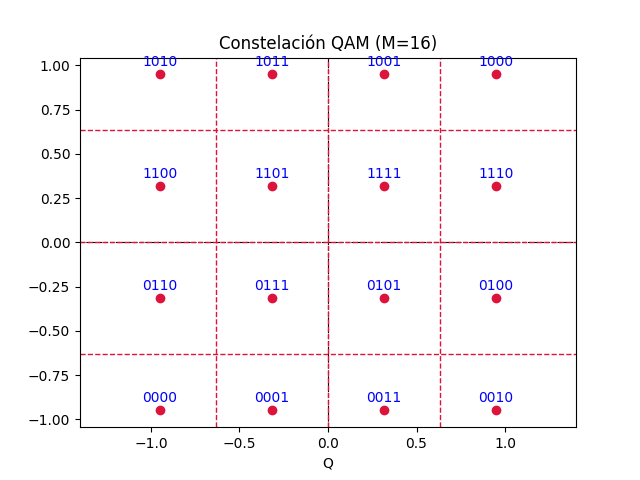
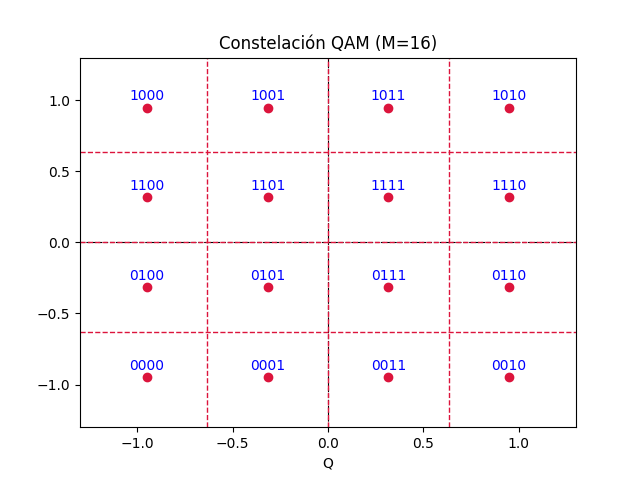
Modifica el código de gray de QAM, y hace pruebas con ASK

diff --git a/montecarlo.py b/montecarlo.py
@@ -1,9 +1,13 @@
+from cProfile import label
+
+import matplotlib.pyplot as plt
+
 from Constelacion import *
 import numpy as np
 
 
 d = 2
-M = 16
+M = 2
 k = int(np.log2(M))
 
 #n es la cantidad de veces q lo genera (va a ser cuantos arrays queremos hacer)
@@ -13,12 +17,12 @@ n_bits = M*2 #van a ser columnas
 bit_array_send = np.random.binomial(n,p,n_bits)
 
 
-modulacion = Constelacion(d,M,'PSK')
+modulacion = Constelacion(d,M,'ASK')
 #modulacion.graficar()
 simbolos_codificados = modulacion.codificarBits(bit_array_send)
 
-mod_qam = Constelacion(d,M,'QAM')
-simbolos_codif_qam = mod_qam.codificarBits(bit_array_send)
+# mod_qam = Constelacion(d,M,'QAM')
+# simbolos_codif_qam = mod_qam.codificarBits(bit_array_send)
 
 
 EbNoDB = np.arange(0,10,1) #De 0 a 10dB
@@ -32,7 +36,7 @@ ruido_x = np.random.normal(0,std,n_ruido)
 ruido_y =1j* np.random.normal(0, std, n_ruido)
 ruido = ruido_x + ruido_y
 
-simbolo_ruido_qam = simbolos_codif_qam + ruido
+# simbolo_ruido_qam = simbolos_codif_qam + ruido
 
 simbolos_con_ruido = simbolos_codificados + ruido
 #print(np.angle(simbolos_codificados)*180/np.pi+180)
@@ -40,11 +44,11 @@ simbolos_con_ruido = simbolos_codificados + ruido
 
 simbolos_decodificados = modulacion.decisor_PSK(simbolos_con_ruido)
 
-simbolos_decodif_qam = mod_qam.decisor_QAM(simbolo_ruido_qam)
+# simbolos_decodif_qam = mod_qam.decisor_QAM(simbolo_ruido_qam)
 
-print('pos codificado',simbolos_codif_qam)
-print('pos recibida',simbolo_ruido_qam)
-print('pos decod',simbolos_decodif_qam)
+# print('pos codificado',simbolos_codif_qam)
+# print('pos recibida',simbolo_ruido_qam)
+# print('pos decod',simbolos_decodif_qam)
 '''
 print('umbrales')
 print('angulos codificado',np.angle(simbolos_codificados)*180/np.pi)
@@ -56,8 +60,25 @@ modQAM = Constelacion(d,M,'QAM')
 modASK = Constelacion(d,M,'ASK')
 
 modASK.graficar()
-modQAM.graficar()
+# modQAM.graficar()
 
+simbolos_cod_ask= modASK.codificarBits(bit_array_send)
+simbolos_ask_con_ruido = simbolos_cod_ask + ruido_x
+
+decodificados_ask = modASK.decisor_ASK(simbolos_ask_con_ruido)
+
+
+fig = plt.figure()
+
+plt.scatter(simbolos_cod_ask, np.zeros_like(simbolos_cod_ask), label= 'pos codificado', marker='o', facecolors='none',edgecolors='blue')
+plt.scatter(decodificados_ask, np.zeros_like(decodificados_ask),label ='pos decod', marker='o')
+plt.scatter(simbolos_ask_con_ruido, np.zeros_like(simbolos_ask_con_ruido),label='pos recibida', marker='.')
+
+plt.legend()
+plt.show()
+print('pos codificado',simbolos_cod_ask)
+print('pos recibida',simbolos_ask_con_ruido)
+print('pos decod',decodificados_ask)
 
 # #Empezamos con la PSK
 # EbNoDB = np.arange(0,10,1) #De 0 a 10dB

diff --git a/Constelacion.py b/Constelacion.py
@@ -1,6 +1,6 @@
 from enum import Enum
 
-from numpy.ma.core import indices
+from numpy.ma.core import zeros_like
 
 from Modulaciones import *
 from graficadores import *
@@ -18,6 +18,15 @@ fuciones_constelaciones = {
     TipoConstelacion.QAM: qam,
     TipoConstelacion.FSK: fsk
 }
+
+def array_binario_a_decimal(arr):
+    arr = np.array(arr, dtype=int)
+    suma = 0
+    j = 0
+    for i in arr[::-1]:
+        suma += i*2**j
+        j += 1
+    return suma
 
 def validar_M(M):
     if not (M > 0 and (M & (M - 1)) == 0):
@@ -67,11 +76,14 @@ class Constelacion:
     def codificarBits(self, bits):
         cantidadBits = len(bits)
         k = int(np.log2(self.M))
-        simbolosCodificados = np.zeros(int(cantidadBits/k), dtype=complex)
+        if self.tipoConstelacion == TipoConstelacion.QAM or self.tipoConstelacion == TipoConstelacion.PSK:
+            simbolosCodificados = np.zeros(int(cantidadBits/k), dtype=complex)
+        else:
+            simbolosCodificados = np.zeros(int(cantidadBits / k))
         pos_codificados = 0
         for i in range(0,cantidadBits,k):
             s= bits[i:i+k]
-            simbolo = self.codigo.get(array_binario_a_gray(s))
+            simbolo = self.codigo.get(array_binario_a_decimal(s))
             if simbolo is None:
                 return None, "Constelacion no válida"
             simbolosCodificados[pos_codificados] = simbolo
@@ -104,14 +116,27 @@ class Constelacion:
 
 
     def decisor_ASK(self,posicion_recibida):
-        simbolo_estimado =[]
+        simbolo_estimado =zeros_like(posicion_recibida)
         posiciones = list(self.codigo.values())
+        indice = 0
+        for i in posicion_recibida:
+            if i < 0:
+                i += 360
+            j = 0
 
-        for pos in posicion_recibida:
-            j = next((idx for idx, umbral in enumerate(self.umbrales) if pos <= umbral), 0)
-            simbolo_estimado.append(posiciones[j])
+            for umbral in self.umbrales:
+                if i <= umbral:
+                    simbolo_estimado[indice] = posiciones[j]
+                    break
+                elif i > umbral:
+                    j += 1
+                else:
+                    simbolo_estimado[indice] = posiciones[0]
+            indice += 1
 
-        simbolo_estimado = np.array(simbolo_estimado)
+        return simbolo_estimado
+
+
 
 
 

diff --git a/Modulaciones.py b/Modulaciones.py
@@ -1,15 +1,7 @@
 from  graficadores import *
 
 
-def array_binario_a_gray(arr):
-    # Aseguramos que el array esté en formato de tipo int
-    arr = np.array(arr, dtype=int)
-    suma = 0
-    j = 0
-    for i in arr[::-1]:
-        suma += i*2**j
-        j += 1
-    return binary_to_gray(suma)
+
 
 def normalizar_constelacion(sim):
 
@@ -78,7 +70,30 @@ def qam(d, M):
     umbrales = np.arange(1, size)
     umbrales = umbrales * d_norm - (size / 2) * d_norm
 
-    # Generar etiquetas binarias y convertirlas a Gray
+    snake_indices = []
+    for row in range(size):
+        if row % 2 == 0:
+            # Recorrer de izquierda a derecha
+            snake_indices.extend(range(row * size, (row + 1) * size))
+        else:
+            # Recorrer de derecha a izquierda
+            snake_indices.extend(range((row + 1) * size - 1, row * size - 1, -1))
+
+    symbols = symbols[snake_indices]
+
+    # Etiquetas en Gray para las coordenadas I y Q
+    gray_i = [binary_to_gray(i) for i in range(size)]
+    gray_q = [binary_to_gray(q) for q in range(size)]
+
+    # Construir el mapeo final (Gray para I y Q)
+    gray_map = {}
+    for idx, symbol in enumerate(symbols):
+        i_idx = int(idx % size)  # Índice para I
+        q_idx = int(idx // size)  # Índice para Q
+        gray_code = (gray_q[q_idx] << (size.bit_length() - 1)) | gray_i[i_idx]
+        gray_map[gray_code] = symbol
+
+
     binary_labels = np.arange(M)
     gray_labels = [binary_to_gray(b) for b in binary_labels]
 
@@ -87,12 +102,14 @@ def qam(d, M):
 
     return gray_map, umbrales
 
-
+# Revsar fsk
 def fsk(d, M):
-    frecuencias = np.arange(M) * d
+    # devuelvo el umbral vacio, no uso el umbral en el decisor
+    symbols = np.eye(M)
+    umbrales = []
     binary_labels = np.arange(M)
     gray_labels = [binary_to_gray(b) for b in binary_labels]
-    gray_map = dict(zip(gray_labels, frecuencias))
-    return gray_map, frecuencias
+    gray_map = dict(zip(gray_labels, symbols))
+    return gray_map, umbrales
 
 

diff --git a/graficadores.py b/graficadores.py
@@ -60,7 +60,23 @@ def graficar_ask(umbrales, gray_map):
     plt.show()
 
 
-def graficar_fsk(mbrales, gray_map):
+def graficar_fsk(umbrales, gray_map):
+    symbols = list(gray_map.values())
+    codigo = list(gray_map.keys())
+    M = len(symbols)
+    if M != 2 :
+        return None
+    for i in range(M):
+        plt.plot(symbols[i][0],symbols[i][1])
+        plt.text(symbols[i][0],symbols[i][1], f'{codigo[i]}', color='red', fontsize=10, ha='center')
+
+    plt.title(f'Constelación FSK (M={M})')
+    plt.xlabel('I')
+    plt.xlabel('Q')
+    # plt.grid(True)
+    plt.axis('equal')
+    plt.savefig(f'results/{M}-PAM.png')
+    plt.show()
     return
 
 def graficar_qam(umbrales, gray_map):
@@ -74,18 +90,19 @@ def graficar_qam(umbrales, gray_map):
         plt.axhline(i, color='crimson', linestyle='--', lw=1)
         plt.axvline(i, color='crimson', linestyle='--', lw=1)
 
-    
+
     for gray, sym in gray_map.items():
         sym = complex(sym)
         plt.plot(sym.real, sym.imag, 'o', color='crimson',
                  label=f'Gray: {format(gray, f"0{int(np.log2(len(gray_map)))}b")}')
         plt.text(sym.real * 1, sym.imag +0.05, f'{format(gray, f"0{int(np.log2(len(gray_map)))}b")}',
                  color='blue', fontsize=10, ha='center')
-    
+
     plt.title(f'Constelación QAM (M={M})')
     plt.xlabel('I')
     plt.xlabel('Q')
     # plt.grid(True)
-    plt.axis('equal')
+    plt.ylim([-1.3, 1.3])
+    plt.xlim([-1.3, 1.3])
     plt.savefig(f'results/{M}-QAM.png')
     plt.show()

diff --git a/pruebasCodificacion.py b/pruebasCodificacion.py
@@ -1,0 +1,29 @@
+from Constelacion import *
+import numpy as np
+
+d = 2
+M = 4
+k = int(np.log2(M))
+
+n = 1 #cuantos arrays diferentes queremos, estos luego los promedio. Serian filas!
+p = 0.5
+n_bits = M*2 #van a ser columnas
+bit_array_send = np.random.binomial(n,p,n_bits)
+
+mod_ASK = Constelacion(d,M,'ASK')
+simbolos_codificados = mod_ASK.codificarBits(bit_array_send)
+
+sigma = 0.1
+std = np.sqrt(sigma)
+
+n_ruido = np.size(simbolos_codificados)
+ruido = np.random.normal(0,std,n_ruido)
+
+
+simbolos_con_ruido = simbolos_codificados + ruido
+
+simbolos_decodificados = mod_ASK.decisor_ASK(simbolos_con_ruido)
+
+print('pos codificado',simbolos_codificados)
+print('pos recibida',simbolos_con_ruido)
+print('pos decod',simbolos_decodificados)

diff --git a/version-coke.py b/version-coke.py
@@ -129,11 +129,11 @@ def plot_fsk(d, M):
 
 
 # Configuración general
-M = 16  #Cantidad de símbolos
+M = 3  #Cantidad de símbolos
 d = 2  # Distancia mínima entre símbolos
 
-plot_ask(d, M)
-plot_qam(d, M)
-plot_psk(d, M)
+# plot_ask(d, M)
+# plot_qam(d, M)
+# plot_psk(d, M)
 if M <= 3:
     plot_fsk(d, M)
